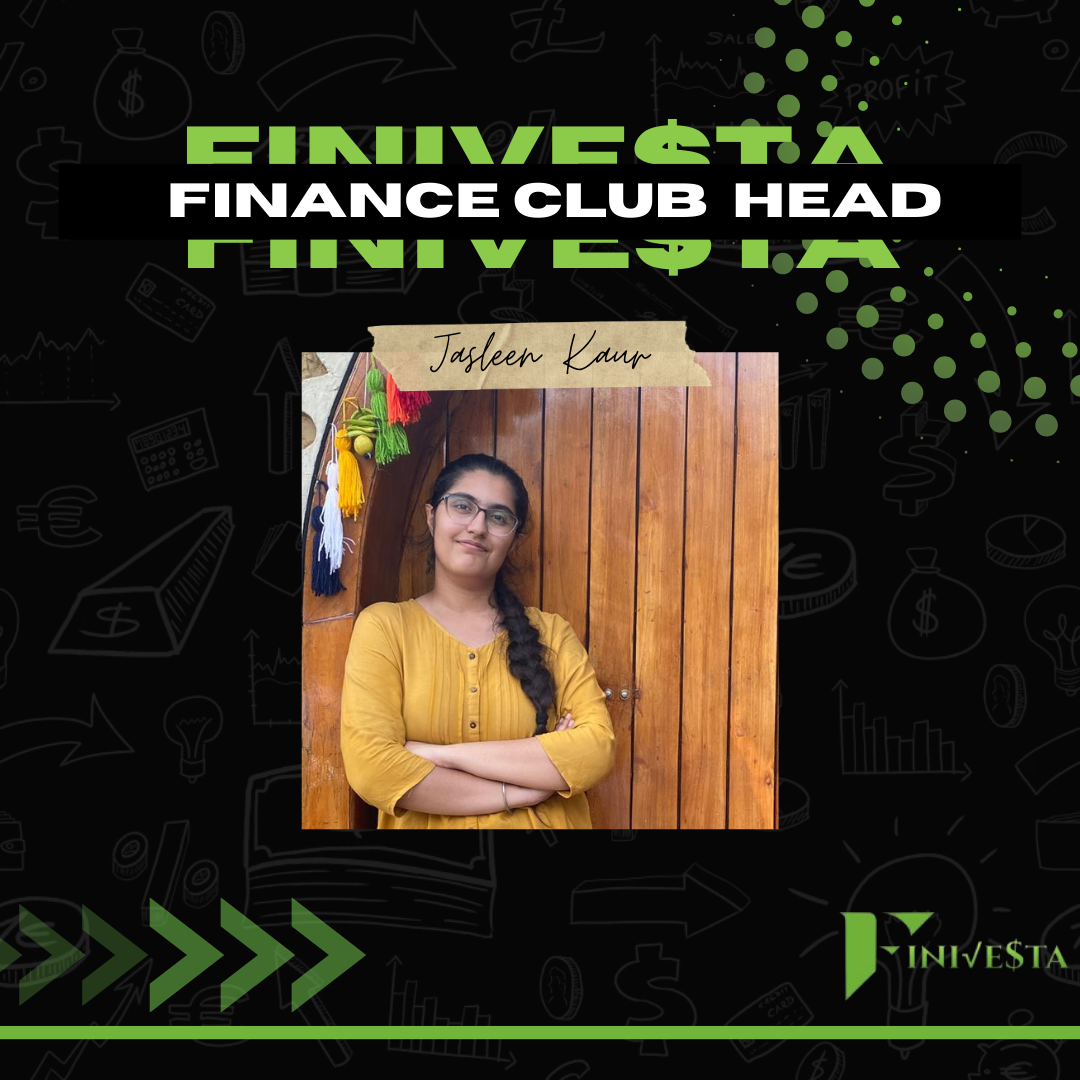
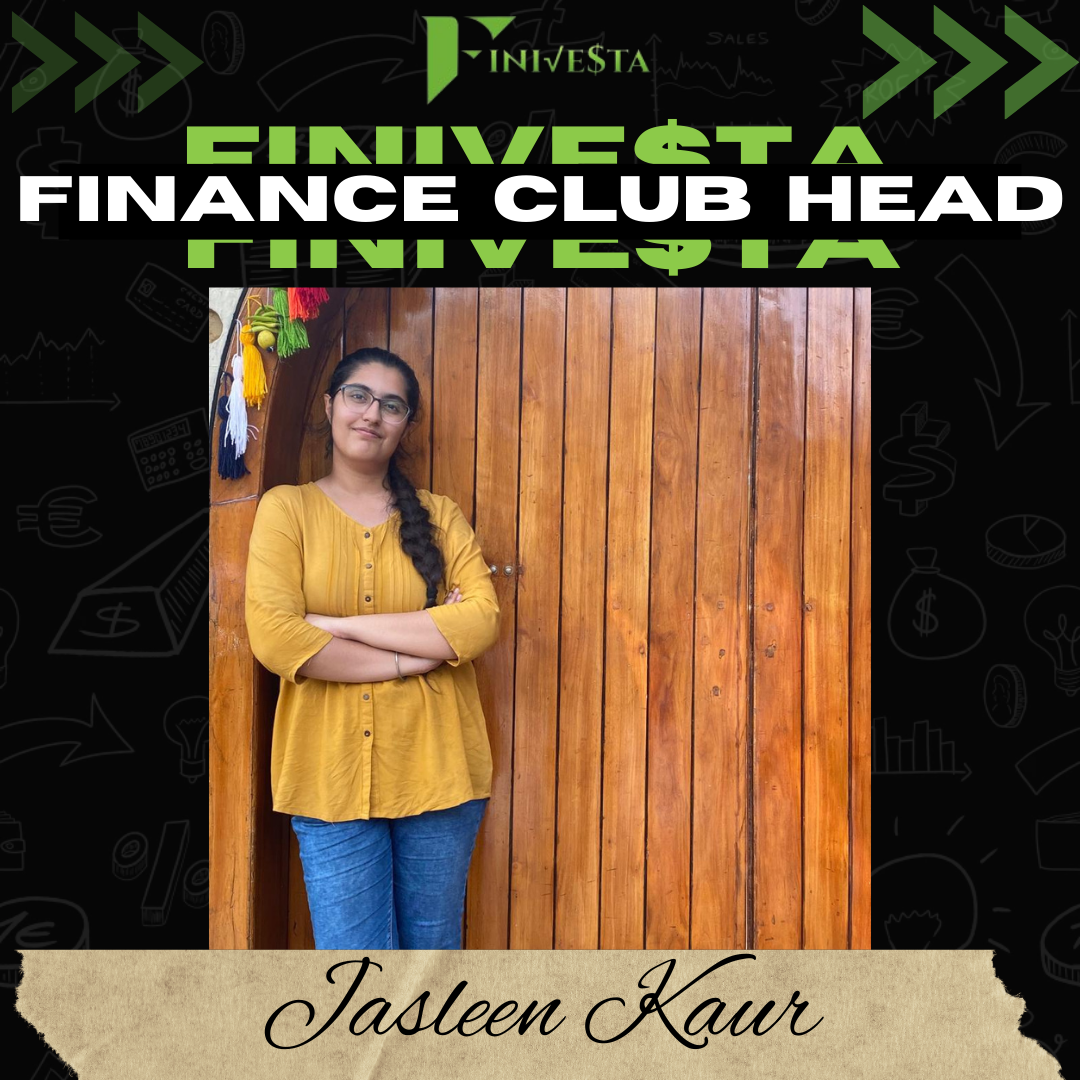
Team page final changes

diff --git a/src/Team/Media/Tenure24.css b/src/Team/Media/Tenure24.css
@@ -26,7 +26,7 @@
 
 .overlay {
     position: absolute; 
-    height: 3.55vw;
+    height: 3vw;
     display: flex;
     bottom: 0;
     background: rgba(0, 0, 0, 0.5); /* Black see-through */
@@ -40,8 +40,12 @@
 }
 
 .overlay i {
-    height: 80%;
+    height: 50%;
     color: #ababab;
+}
+
+.icons {
+    font-size: 0.5em;
 }
 
 .photo:hover .image,
@@ -82,11 +86,15 @@
     }
   
     .overlay {
-        height: 5.6vw;
+        height: 4.9vw;
     }
   
     .overlay i {
         height: 2.5vw;
+    }
+
+    .icons {
+        font-size: 0.7em;
     }
 }
 
@@ -100,11 +108,15 @@
     }
   
     .overlay {
-        height: 11.5vw;
+        height: 9.77vw;
     }
   
     .overlay i {
         height: 5vw;
+    }
+
+    .icons {
+        font-size: 1em;
     }
   
 }

diff --git a/src/Team/Media/Tenure24.js b/src/Team/Media/Tenure24.js
@@ -10,8 +10,8 @@ import Abhaya from './Tenure24/Crea_Abhaya.png';
 import Sanya from './Tenure24/Crea_Sanya.png';
 import Jasleen from './Tenure24/FC_Jasleen.png';
 import Mishthi from './Tenure24/FC_Mishthi.png';
-import Anshika from './Tenure24/FNR_Anshika.png';
-import Sneha from './Tenure24/FNR_Sneha.png';
+import Anshika from './Tenure24/FnR_Anshika.png';
+import Sneha from './Tenure24/FnR_Sneha.png';
 import Harshita from './Tenure24/HR_Harshita.png';
 import Manya from './Tenure24/HR_Manya.png';
 import Khushi from './Tenure24/PR_Khushi.png';
